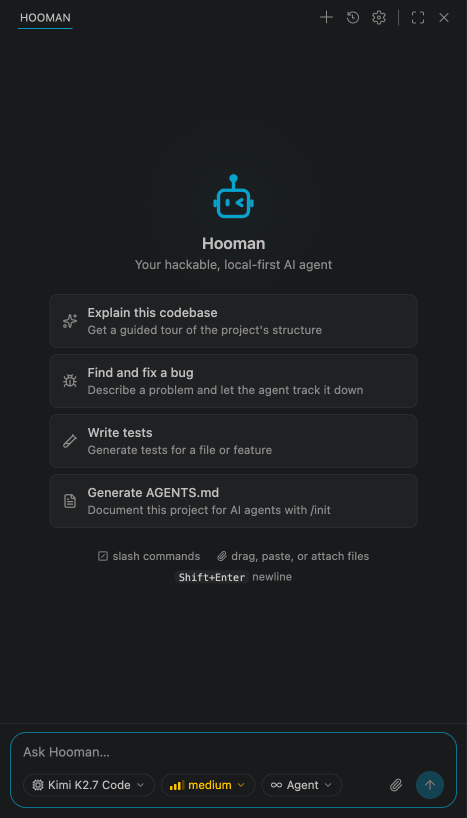
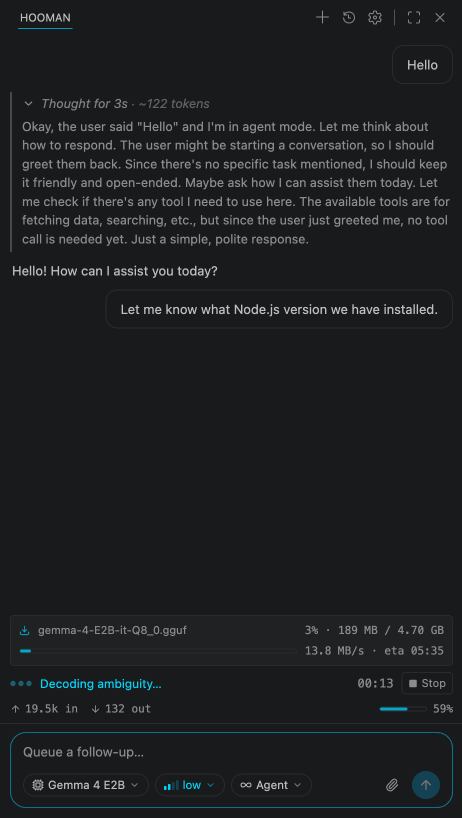
Update screenshots in dev

diff --git a/src/vscode/webview/components/HoomanLogo.tsx b/src/vscode/webview/components/HoomanLogo.tsx
@@ -1,5 +1,5 @@
 /**
- * Inline copy of `media/hooman.svg`: rendered as JSX (not an `<img>`) so
+ * Inline copy of `media/icon.svg`: rendered as JSX (not an `<img>`) so
  * `currentColor` inherits the theme's foreground/accent instead of defaulting
  * to black inside an image document.
  */

diff --git a/README.md b/README.md
@@ -1,5 +1,5 @@
 <div align="center">
-  <img src=".github/logo.svg" alt="Hooman logo" width="128" />
+  <img src="docs/src/assets/logo.svg" alt="Hooman logo" width="128" />
   <h1>Hooman</h1>
   <p>
     Hooman is a hackable, local-first AI agent toolkit for local workflows. It is built with TypeScript, <a href="https://www.npmjs.com/package/@strands-agents/sdk">Strands Agents SDK</a>, and <a href="https://github.com/vadimdemedes/ink">Ink</a>.
@@ -13,7 +13,7 @@
     <a href="https://github.com/vaibhavpandeyvpz/hooman/commits/main"><img src="https://img.shields.io/github/last-commit/vaibhavpandeyvpz/hooman" alt="GitHub last commit" /></a>
   </p>
   <p>
-    <img src=".github/screenshot.png" alt="Hooman screenshot" />
+    <img src="docs/src/assets/screenshots-hero.png" alt="Hooman screenshot" />
   </p>
   <p>
     <strong><a href="https://vaibhavpandey.com/hooman/">Website</a></strong> ·

diff --git a/AGENTS.md b/AGENTS.md
@@ -85,7 +85,7 @@ Key facts:
 - **Shared ACP layer:** `acp-client.ts` spawns `hooman acp` (one process for the extension lifetime; sessions multiplex over it), `fs-backend.ts`/`terminal-backend.ts` implement the ACP client-side `fs/*`/`terminal/*` capabilities (which the agent's built-in filesystem/shell tools route through when advertised), `edit-tracker.ts` snapshots pre-write baselines for the Changes panel (native diff, keep/undo), and `permissions.ts` resolves `session/request_permission` (inline panel card → modal fallback). `chat-view.ts` sends `_meta["hoomanjs/vscode"]: true` on `session/new`/`session/load` so the agent loads the local MCP config (`~/.hooman/mcp.json` + repo overlays) as usual instead of the default ACP session-scoped-only isolation; config picks made before the eager session exists are buffered and applied once it does. Session history is a custom-rendered `Sessions` overlay inside the webview (`webview/components/SessionsPanel.tsx`, toggled by the title-bar history button / `hooman.pickSession`): saved sessions grouped by day with search, the ongoing one marked (spinner while a turn runs), click-to-open, per-row delete (`session/delete`, host-side modal confirm), and a New Chat action. The host pushes list refreshes over the bridge (`sessions`/`showSessions` outbound, `listSessions`/`sessionsClosed`/`openSession`/`deleteSession`/`newChat` inbound) while the overlay is open, and switching sessions frees the previous one's in-memory state via `session/close`.
 - **Config:** `hooman.acp.command` (default `npx`) / `hooman.acp.args` (default `["hoomanjs", "acp"]`) VS Code settings control how the agent process is spawned — the default resolves `hoomanjs` via `npx` with no setup required; point them at an absolute path (or a linked/built `hooman`) to bypass `npx`.
 - **Packaging:** `npm run package` produces a `.vsix`. The webview app (SolidJS, Tailwind, lucide-solid, marked) is fully bundled into `media/chat.js`/`chat.css` by Vite, and the extension host (`src/*.ts`) is bundled into a single `out/extension.js` by esbuild (`esbuild.mjs`, `external: ["vscode"]`) — so the extension host's only real dependency (`@agentclientprotocol/sdk`, plus its `zod` dependency) is inlined at build time and kept a `devDependency`; nothing ships under `node_modules` in the `.vsix` (`.vscodeignore` excludes it outright). `tsc --noEmit` (both `tsconfig.json` and `tsconfig.webview.json`) remains the source of truth for type errors; esbuild only bundles.
-- **Marketplace metadata:** `license`/`icon` (`media/icon.png`, rendered from `.github/logo.svg`)/`homepage`/`bugs`/`galleryBanner` are set on `src/vscode/package.json`; `src/vscode/LICENSE` is a copy of the root `LICENSE` (`vsce` looks for one inside the packaged sub-package, not the repo root). `src/vscode/CHANGELOG.md` is rendered as a Marketplace tab and should get an entry per published version.
+- **Marketplace metadata:** `license`/`icon` (`media/icon.png`, rendered from `docs/src/assets/logo.svg`)/`homepage`/`bugs`/`galleryBanner` are set on `src/vscode/package.json`; `src/vscode/LICENSE` is a copy of the root `LICENSE` (`vsce` looks for one inside the packaged sub-package, not the repo root). `src/vscode/CHANGELOG.md` is rendered as a Marketplace tab and should get an entry per published version.
 - **Publishing:** `.github/workflows/publish-vscode.yml` runs `vsce package` (and `vsce publish` using a `VSCE_PAT` secret) from `src/vscode/` on pushes to `main` and on `v*` tags — the same tag namespace as the root package's npm release (`publish-npm.yml`), since both are versioned in lockstep.
 - **Full setup, build, and F5 run instructions:** see [`src/vscode/README.md`](src/vscode/README.md).
 

diff --git a/src/vscode/README.md b/src/vscode/README.md
@@ -5,7 +5,7 @@
     Chat with <a href="https://github.com/vaibhavpandeyvpz/hooman">Hooman</a> — a hackable, local-first AI agent — without leaving your editor.
   </p>
   <p>
-    <img src="https://raw.githubusercontent.com/vaibhavpandeyvpz/hooman/main/src/vscode/media/screenshot.png" alt="Hooman chat panel in VS Code" width="480" />
+    <img src="https://raw.githubusercontent.com/vaibhavpandeyvpz/hooman/main/docs/src/assets/screenshots-hero.png" alt="Hooman chat panel in VS Code" width="480" />
   </p>
 </div>
 